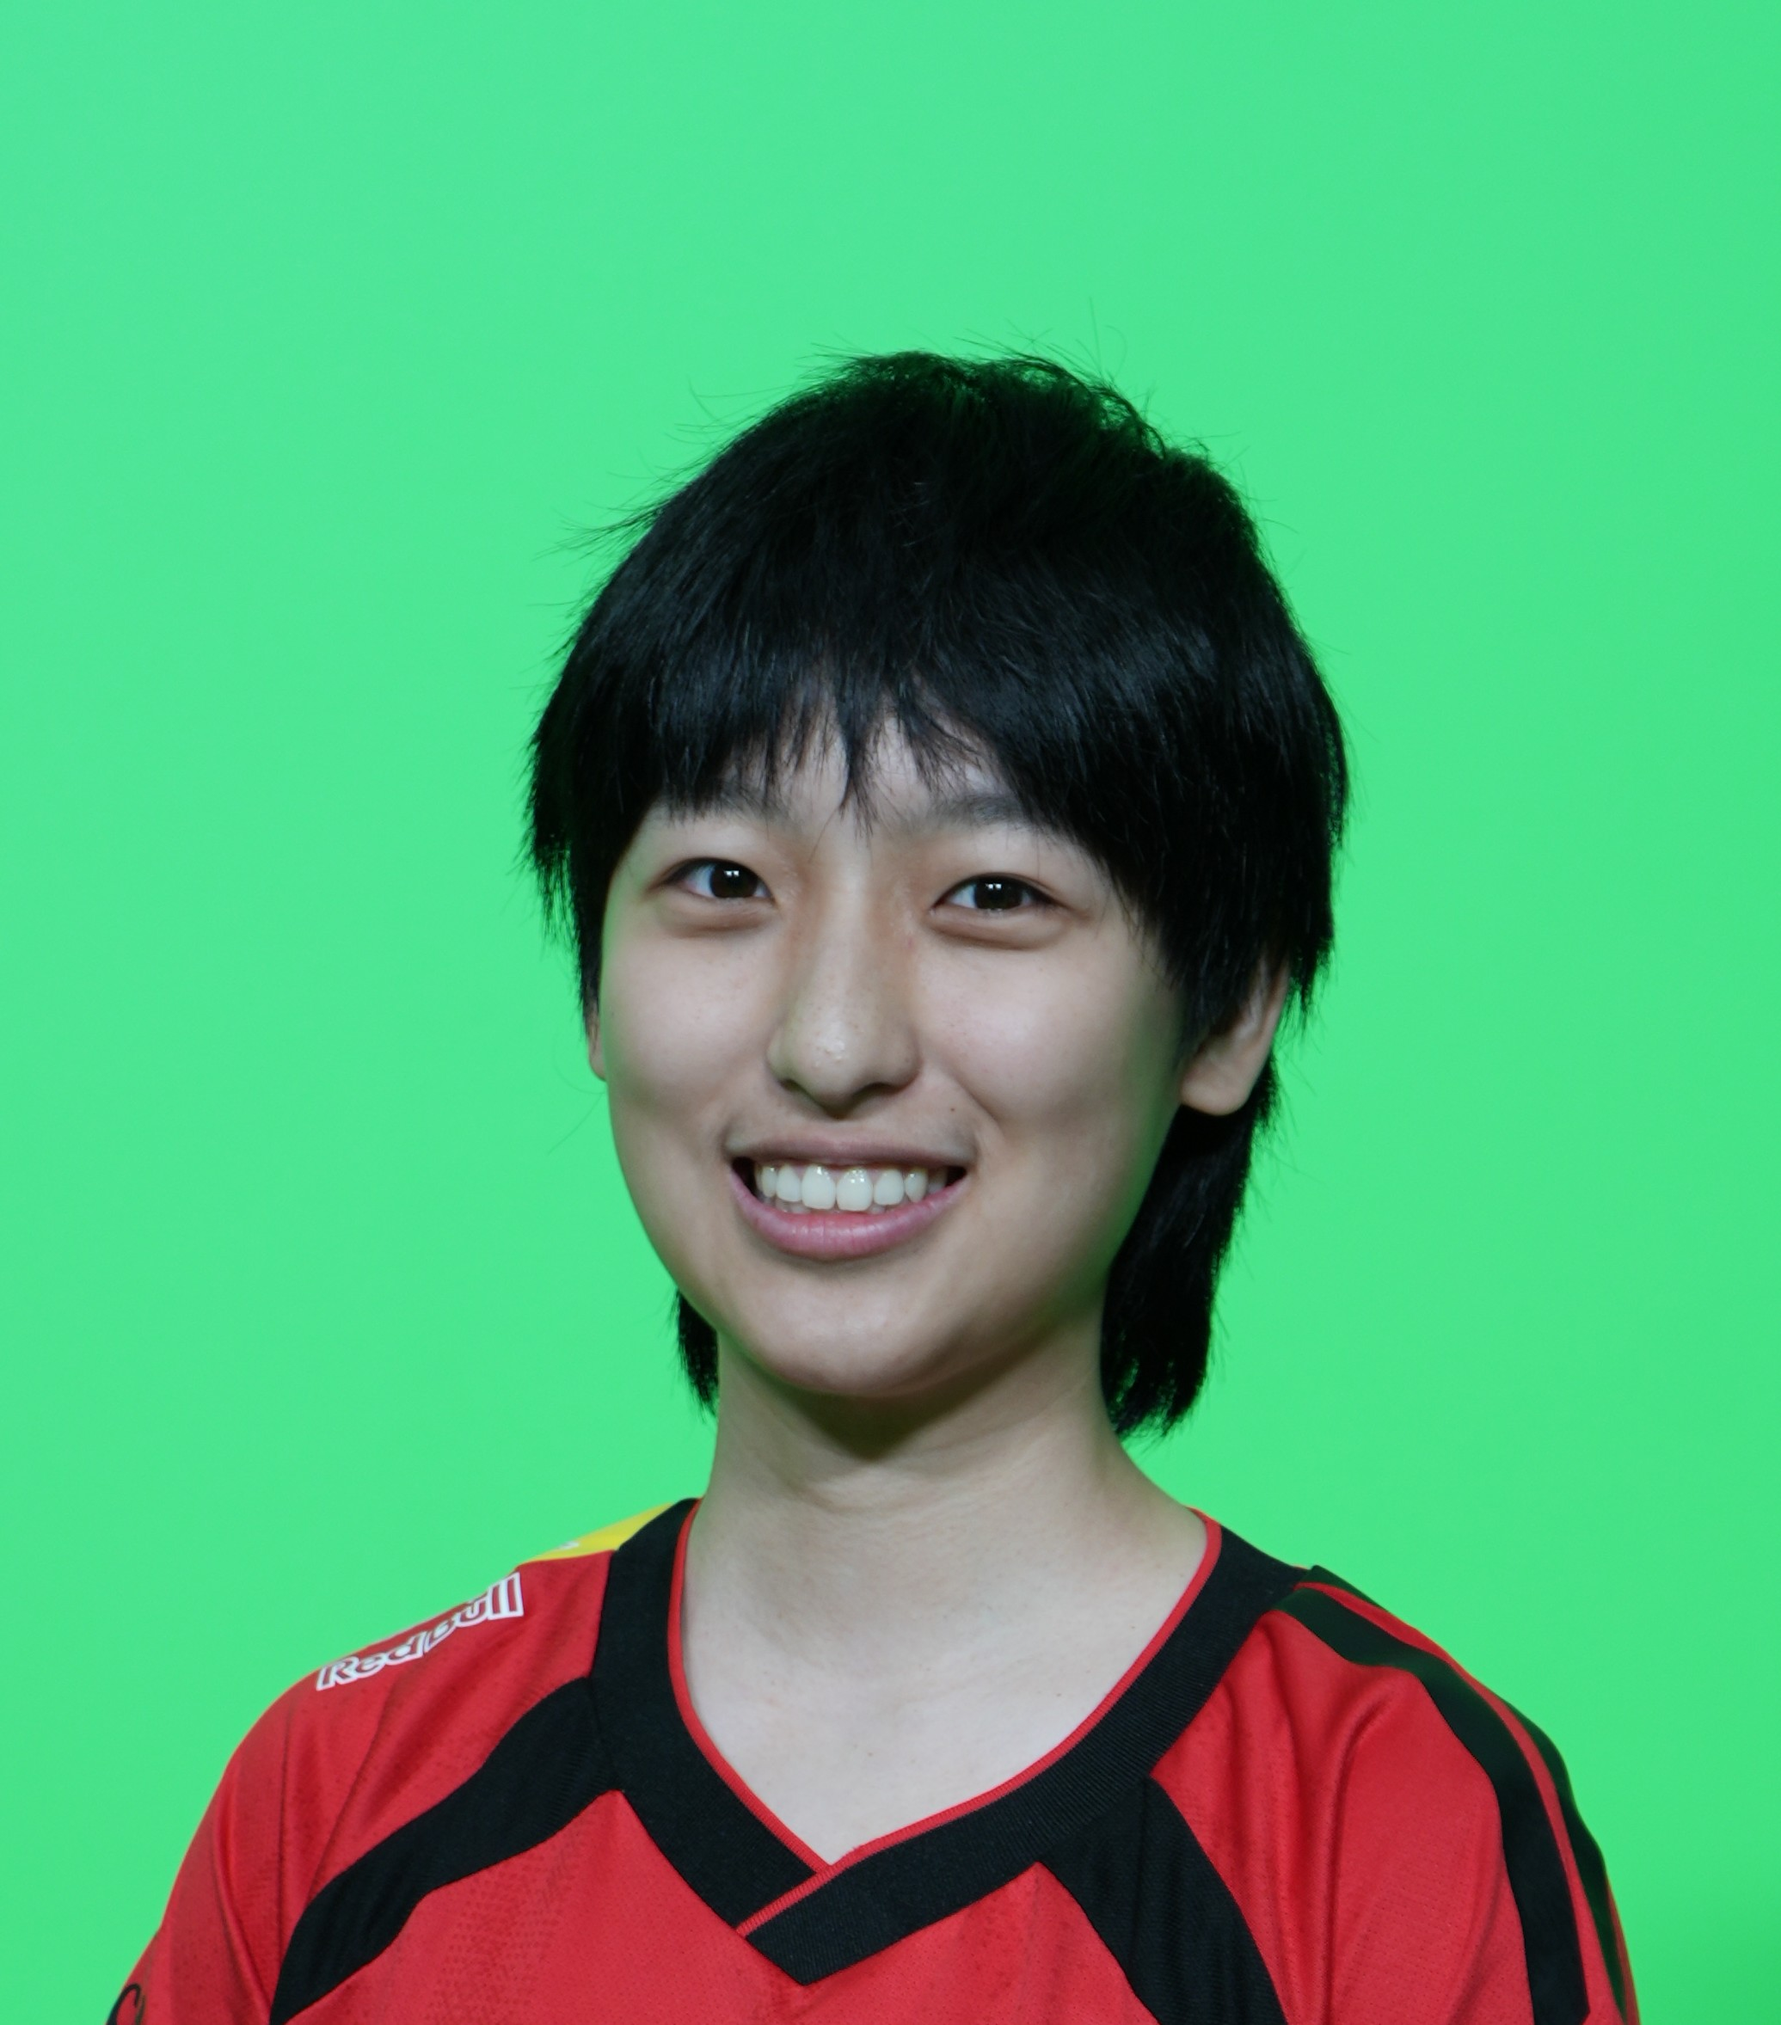
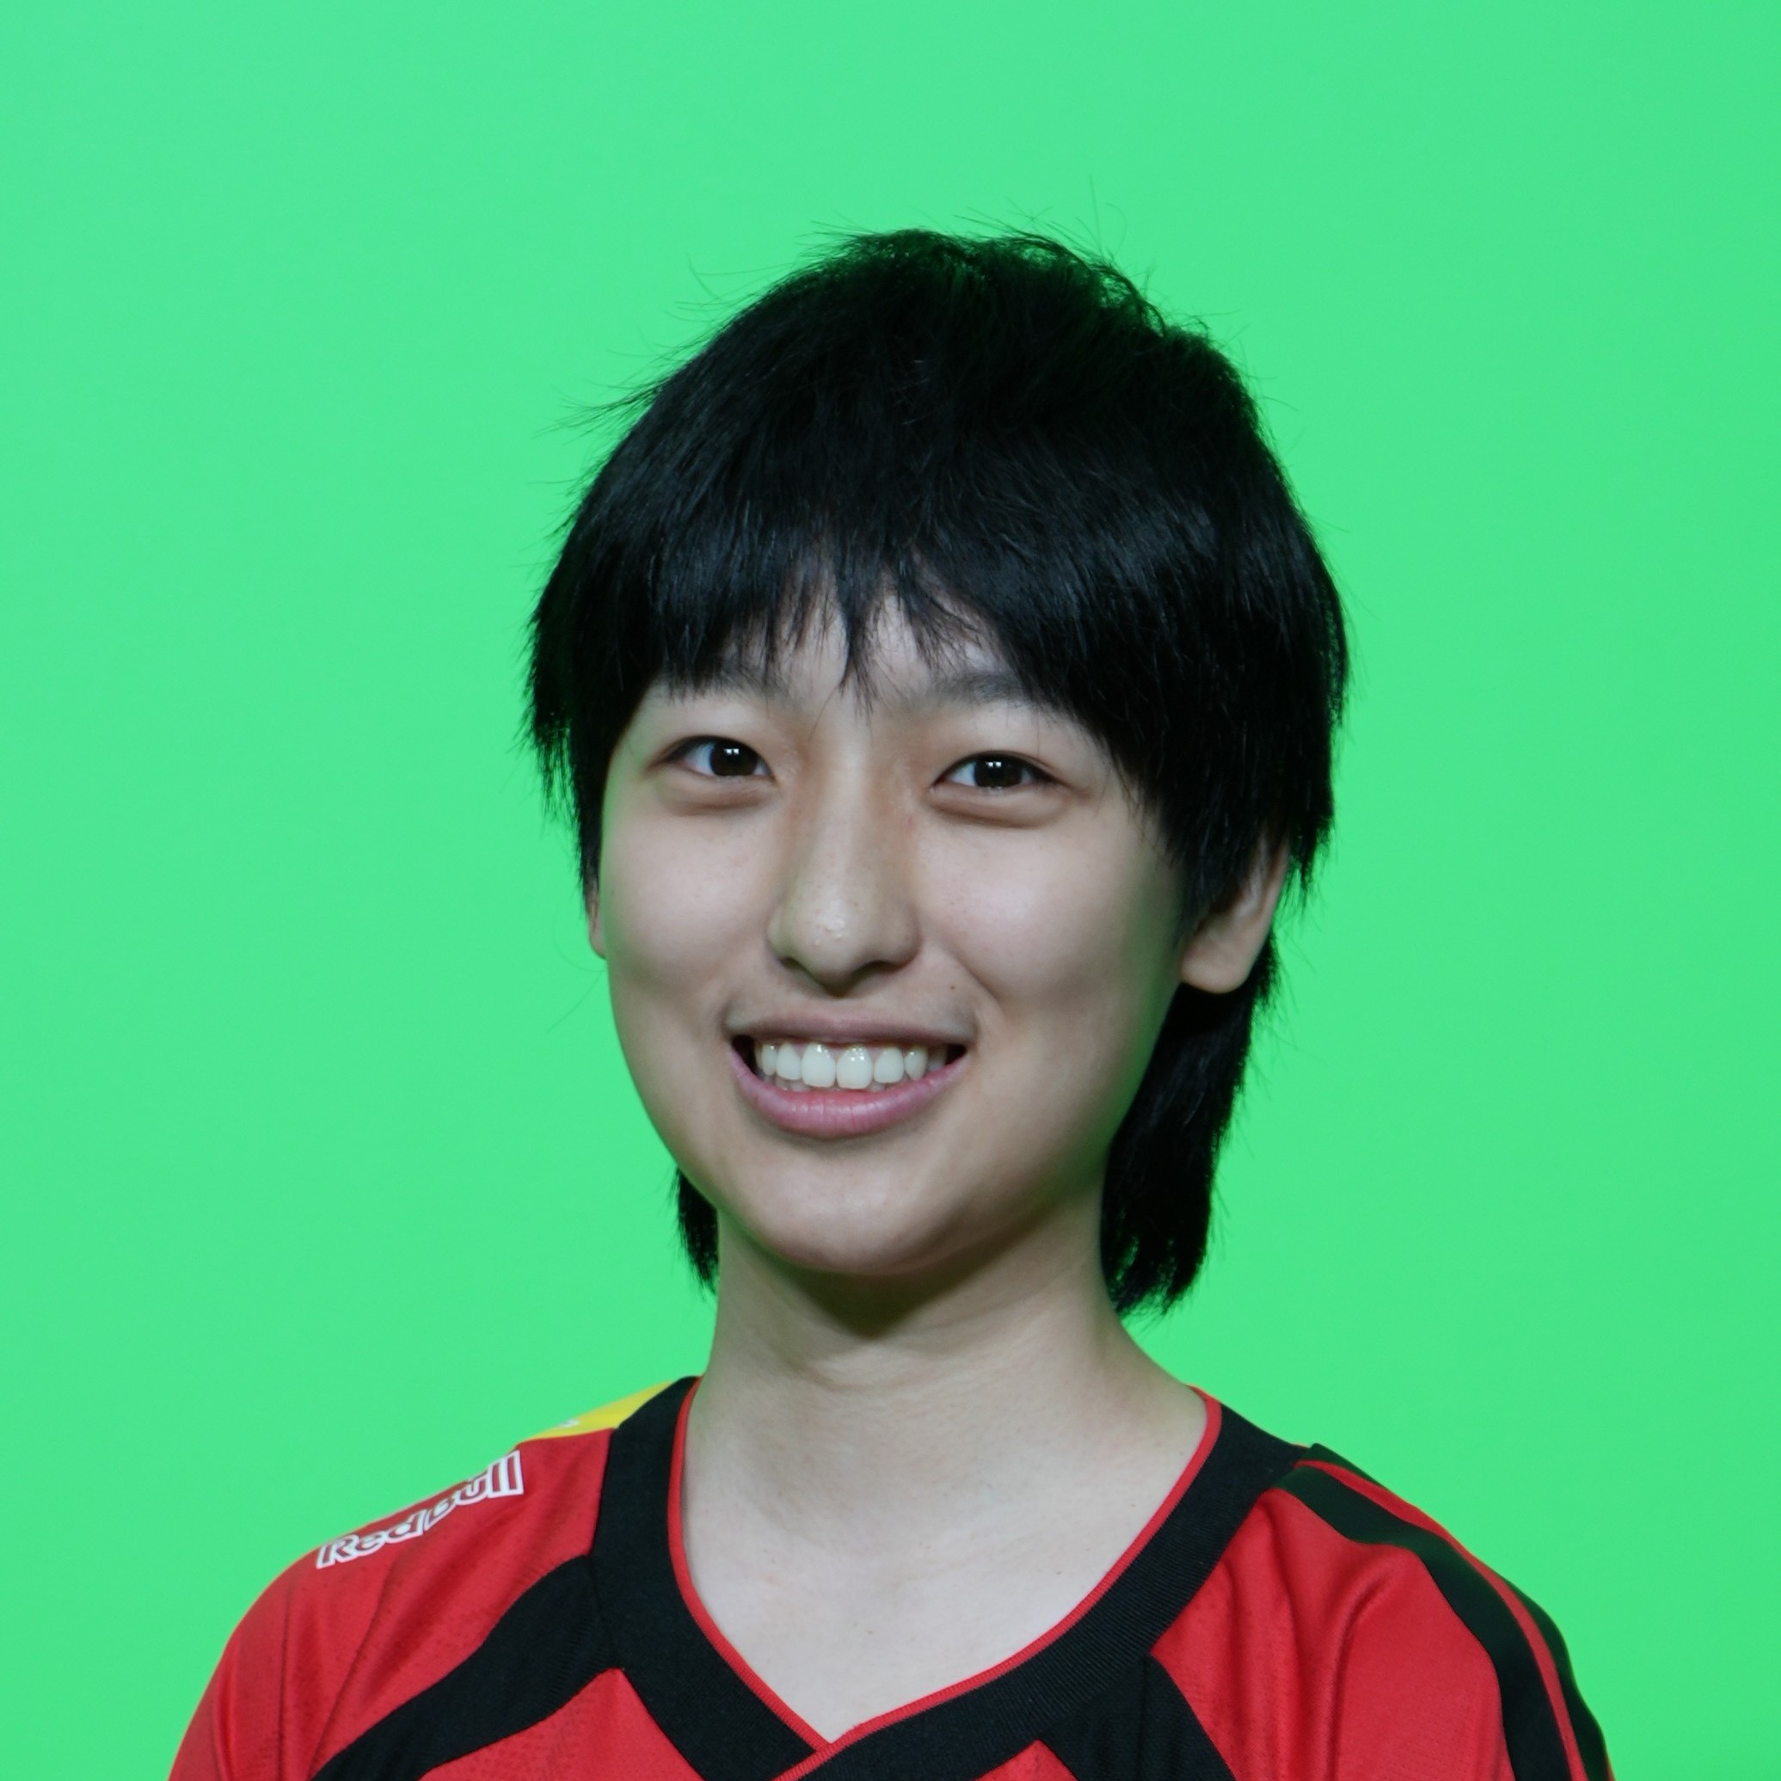
Activity 3: Changed theme to blue

Changed region(s): [[0.0618, 0.5254, 0.9271, 1.0], [0.2781, 0.1236, 0.7726, 0.4944], [0.649, 0.5254, 0.7417, 0.6799]]

diff --git a/index.html b/index.html
@@ -210,7 +210,7 @@
           <div class="content section-padding valign" style="margin-left: 10%; margin-top: 50px;">
             <div class="caption">
               <h2>Hi, I'm <span class="teal">Cindy Chen.</span></h2>
-              <h5 style="color:#fff">A <span class="typing" style="font-weight: 300; color:#004d40"></span></h5>
+              <h5 style="color:#fff">A <span class="typing" style="font-weight: 300; color:#022553"></span></h5>
               <!-- <h5 style="color:#00796b">A <span class="typing" style="font-weight: 300; color:#fff"></span></h5> -->
               <h5>Software developer with a passion for game development, AI, and animation.</h5>
             </div>
@@ -357,7 +357,7 @@
                 <div class="card-action">
                   <a aria-label="Visit the GitHub repo for project" href="https://github.com/cindyschen/claw-machine-game-DE1SoC"
                     target="_blank" data-position="top" data-tooltip="View Source"
-                    class="btn-floating btn-large waves-effect waves-light blue-grey tooltipped"><i
+                    class="btn-floating btn-large waves-effect waves-light blue-green tooltipped"><i
                       class="fa fa-github"></i></a>
                 </div>
               </div>
@@ -426,7 +426,7 @@
         <!-- Languages and Databases -->
         <div class="card">
           <div class="card-content">
-            <h4 class="brown-text light">Languages and Databases</h4>
+            <h4 class="teal-text light">Languages and Databases</h4>
             <div class="row text-center">
               <div class="col s4 m2">
                 <img alt="" src="assets/img/c++.png" class="responsive-img" />C++
@@ -452,7 +452,7 @@
 
         <div class="card">
           <div class="card-content">
-            <h4 class="brown-text light">Libraries</h4>
+            <h4 class="teal-text light">Libraries</h4>
             <div class="row text-center">
               <div class="col s4 m2">
                 <img alt="" src="assets/img/numpy-logo-1-500x500.jpg" class="responsive-img" />NumPy
@@ -470,7 +470,7 @@
         <!-- Frameworks -->
         <div class="card">
           <div class="card-content">
-            <h4 class="brown-text light">Frameworks</h4>
+            <h4 class="teal-text light">Frameworks</h4>
             <div class="row text-center">
               <div class="col s4 m2">
                 <img alt="" src="assets/img/vue.png" class="responsive-img" />Vue
@@ -485,7 +485,7 @@
         <!-- Other -->
         <div class="card">
           <div class="card-content">
-            <h4 class="brown-text light">Other</h4>
+            <h4 class="teal-text light">Other</h4>
             <div class="row text-center">
 
               <div class="col s4 m2">
@@ -579,26 +579,26 @@
       <div class="container">
         <p>
           <a aria-label="Call Cindy" data-position="top" data-tooltip="Call Cindy"
-            class="btn-floating btn-large waves-effect waves-light blue-grey tooltipped"><i class="fa fa-phone"></i><a
+            class="btn-floating btn-large waves-effect waves-light blue-green tooltipped"><i class="fa fa-phone"></i><a
               aria-label="Call Cindy">+16475683510</a></a>
         </p>
         <p>
           <a aria-label="Email Cindy" href="mailto:13ccindy@gmail.com" target="_blank" data-position="top"
-            data-tooltip="Email Cindy" class="btn-floating btn-large waves-effect waves-light blue-grey tooltipped"><i
+            data-tooltip="Email Cindy" class="btn-floating btn-large waves-effect waves-light blue-green tooltipped"><i
               class="fa fa-envelope"></i><a aria-label="Email Cindy" href="mailto:13ccindy@gmail.com"
               class="hoverline">13ccindy@gmail.com</a></a>
         </p>
         <p>
           <a aria-label="View Cindy on GitHub" href="http://github.com/cindyschen" target="_blank"
             data-position="top" data-tooltip="View Cindy on GitHub"
-            class="btn-floating btn-large waves-effect waves-light blue-grey tooltipped"><i class="fa fa-github"></i><a
+            class="btn-floating btn-large waves-effect waves-light blue-green tooltipped"><i class="fa fa-github"></i><a
               aria-label="Cindy on Github" href="http://github.com/cindyschen" class="hoverline"
               target="_blank">github.com/cindyschen</a></a>
         </p>
         <p>
           <a aria-label="View Cindy on LinkedIn" href="http://linkedin.com/in/3cindy" target="_blank"
             data-position="top" data-tooltip="View Cindy on LinkedIn"
-            class="btn-floating btn-large waves-effect waves-light blue-grey tooltipped"><i
+            class="btn-floating btn-large waves-effect waves-light blue-green tooltipped"><i
               class="fa fa-linkedin"></i><a aria-label="Cindy on LinkedIn" href="http://linkedin.com/in/3cindy"
               class="hoverline" target="_blank">linkedin.com/in/3cindy</a></a>
         </p>

diff --git a/assets/css/style.css b/assets/css/style.css
@@ -85,7 +85,7 @@
   position: relative;
   padding: 11px 35px;
   background: #fff;
-  color: #00796b;
+  color: #235b81;
   border: 2px solid #fff;
   font-weight: 600;
   font-size: 15px;
@@ -97,7 +97,7 @@
 
 /* .readme:hover{
   color: white;
-  background-color: #00796b;
+  background-color: #235b81;
 } */
 
 .contactme {
@@ -116,7 +116,7 @@
 }
 
 .contactme:hover{
-  color: #00796b;
+  color: #235b81;
   background-color: white;
 }
 /* main body */
@@ -140,7 +140,7 @@ body {
 } */
 
 a {
-  color: #004d40;
+  color: #022553;
 }
 
 /* main blockqoute */
@@ -320,7 +320,7 @@ h3 {
 } */
 
 #intro.section {
-  background: #a7ffeb repeat;
+  background: #a5ddee repeat;
   position: relative;
 }
 
@@ -473,7 +473,7 @@ a.hoverline {
 } */
 
 a.hoverline:hover {
-  border-bottom: 3px solid #004d40 !important;
+  border-bottom: 3px solid #022553 !important;
 }
 
 #skills .card.large {
@@ -549,7 +549,7 @@ small {
 /* main .teal-text */
 
 .teal-text {
-  color: #008073 !important;
+  color: #1e86b6 !important;
 }
 
 /* .teal-text {
@@ -559,7 +559,7 @@ small {
 /* .teal */
 
 .teal {
-  background-color: #008073 !important;
+  background-color: #72c4c4 !important;
 }
 
 /* .teal {
